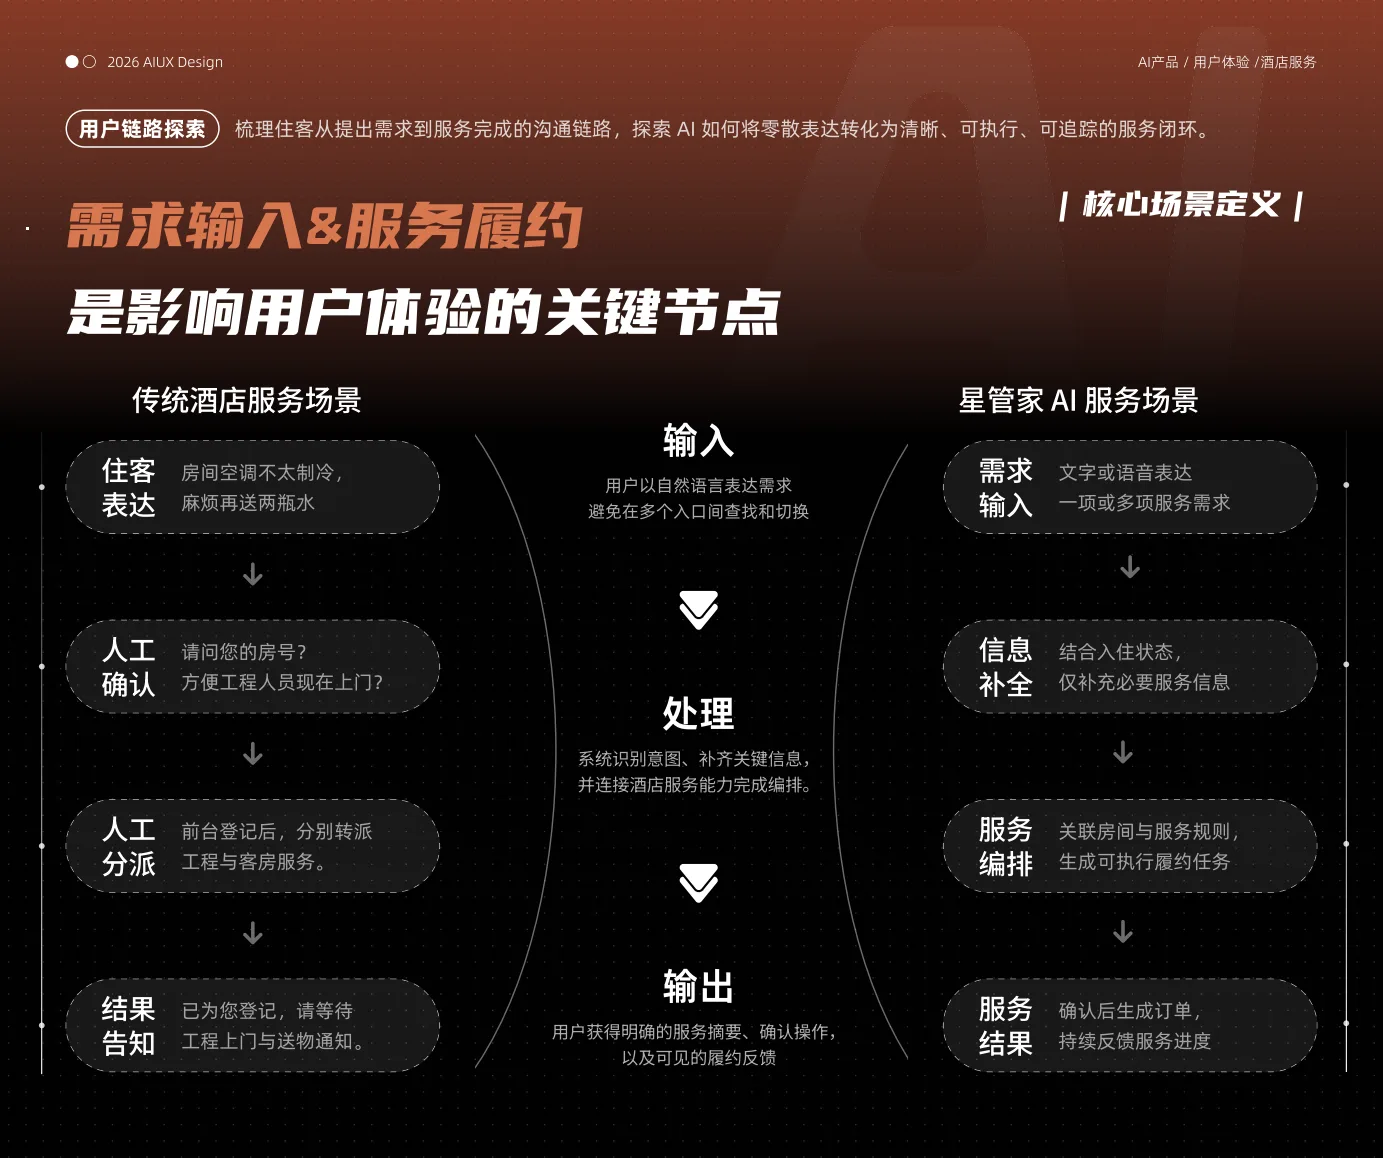
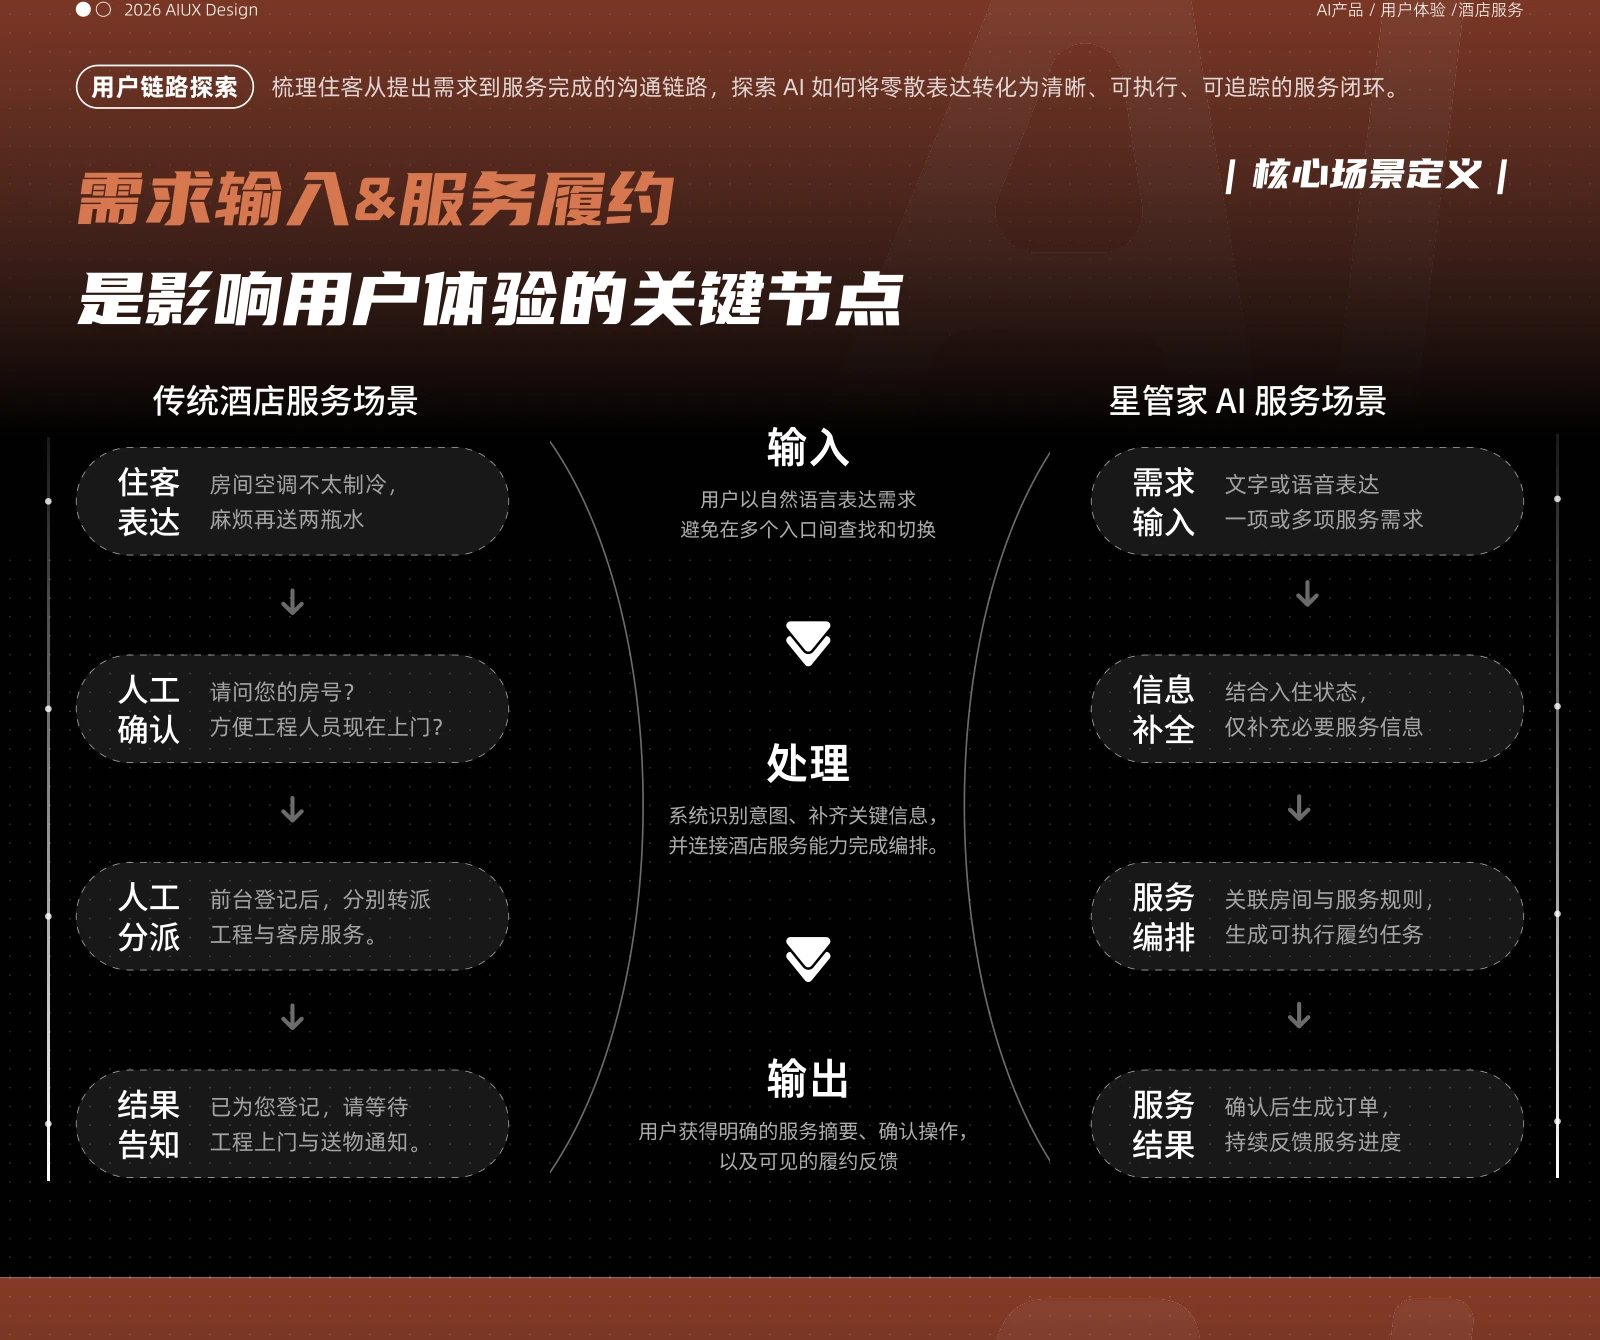
Update Xingguanjia case study content from revised PDF

diff --git a/lib/projects.ts b/lib/projects.ts
@@ -32,17 +32,18 @@ export const projects: PortfolioProject[] = [
     challenge: "传统服务入口、对话与履约分散，住客需要自己判断从哪里开始，也难以确认服务是否正在被处理。",
     approach: "以统一的对话入口承接问答与服务，再通过结构化确认卡片和持续可见的订单状态，形成完整服务闭环。",
     cover: "/projects/xing/01.webp",
+    coverHeight: 1534,
     accent: "#d7754f",
     sections: [
-      { title: "产品定位与核心场景", note: "从住客的服务需求与酒店履约能力出发，明确设计机会。", image: "/projects/xing/02.webp", width: 1920, height: 1656 },
-      { title: "需求输入与服务履约", note: "将表达、确认、执行与结果反馈串成连续体验。", image: "/projects/xing/03.webp", width: 1920, height: 1607 },
-      { title: "寻找服务体验切入点", note: "以住客链路对应关键页面和设计问题。", image: "/projects/xing/04.webp", width: 1920, height: 2236 },
-      { title: "业务目标与设计策略", note: "兼顾需求承接效率与服务过程的确定性。", image: "/projects/xing/05.webp", width: 1920, height: 2331 },
-      { title: "首页：对话与任务融合", note: "让住客在同一页面发现服务、直接表达需求。", image: "/projects/xing/06.webp", width: 1920, height: 1718 },
-      { title: "首页方案与体验对比", note: "围绕入口、表达与反馈，展开核心交互方案。", image: "/projects/xing/07.webp", width: 1920, height: 6929 },
-      { title: "复合需求与服务状态", note: "拆解多项需求，并让服务卡片随履约状态持续更新。", image: "/projects/xing/08.webp", width: 1920, height: 7245 },
-      { title: "结构化服务与表单体系", note: "以可发现的固定入口和组件化表单承接不同服务场景。", image: "/projects/xing/09.webp", width: 1920, height: 16397 },
-      { title: "AI 辅助设计实践", note: "借助 AI 梳理产品体验蓝图、拓展 IP 场景资产，并沉淀可维护的 Figma 色彩与文字样式。", image: "/projects/xing/10.webp", width: 1920, height: 5022 },
+      { title: "产品定位与核心场景", note: "从住客的服务需求与酒店履约能力出发，明确设计机会。", image: "/projects/xing/02.webp", width: 1600, height: 1381 },
+      { title: "需求输入与服务履约", note: "将表达、确认、执行与结果反馈串成连续体验。", image: "/projects/xing/03.webp", width: 1600, height: 1340 },
+      { title: "寻找服务体验切入点", note: "以住客链路对应关键页面和设计问题。", image: "/projects/xing/04.webp", width: 1600, height: 1864 },
+      { title: "业务目标与设计策略", note: "兼顾需求承接效率与服务过程的确定性。", image: "/projects/xing/05.webp", width: 1600, height: 1943 },
+      { title: "首页：对话与任务融合", note: "让住客在同一页面发现服务、直接表达需求。", image: "/projects/xing/06.webp", width: 1600, height: 1433 },
+      { title: "首页方案与体验对比", note: "围绕入口、表达与反馈，展开核心交互方案。", image: "/projects/xing/07.webp", width: 1600, height: 5775 },
+      { title: "复合需求与服务状态", note: "拆解多项需求，并让服务卡片随履约状态持续更新。", image: "/projects/xing/08.webp", width: 1600, height: 11516 },
+      { title: "结构化服务与表单体系", note: "以可发现的固定入口和组件化表单承接不同服务场景。", image: "/projects/xing/09.webp", width: 1600, height: 13665 },
+      { title: "AI 辅助设计实践", note: "借助 AI 梳理产品体验蓝图、拓展 IP 场景资产，并沉淀可维护的 Figma 色彩与文字样式。", image: "/projects/xing/10.webp", width: 1600, height: 4260 },
     ],
   },
   {
